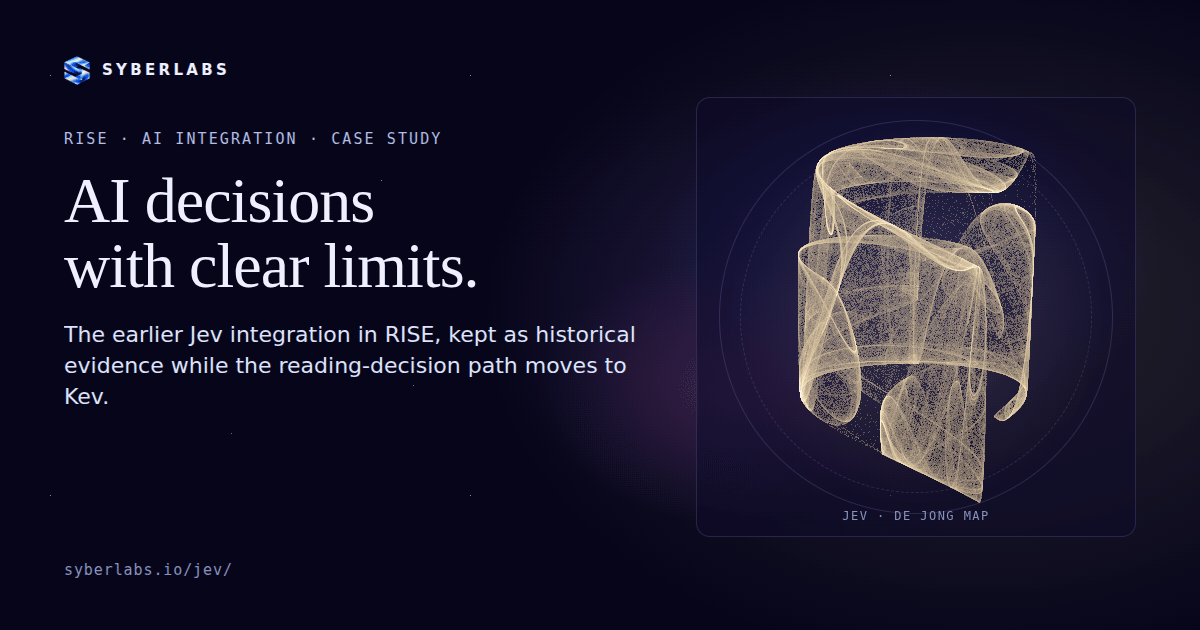
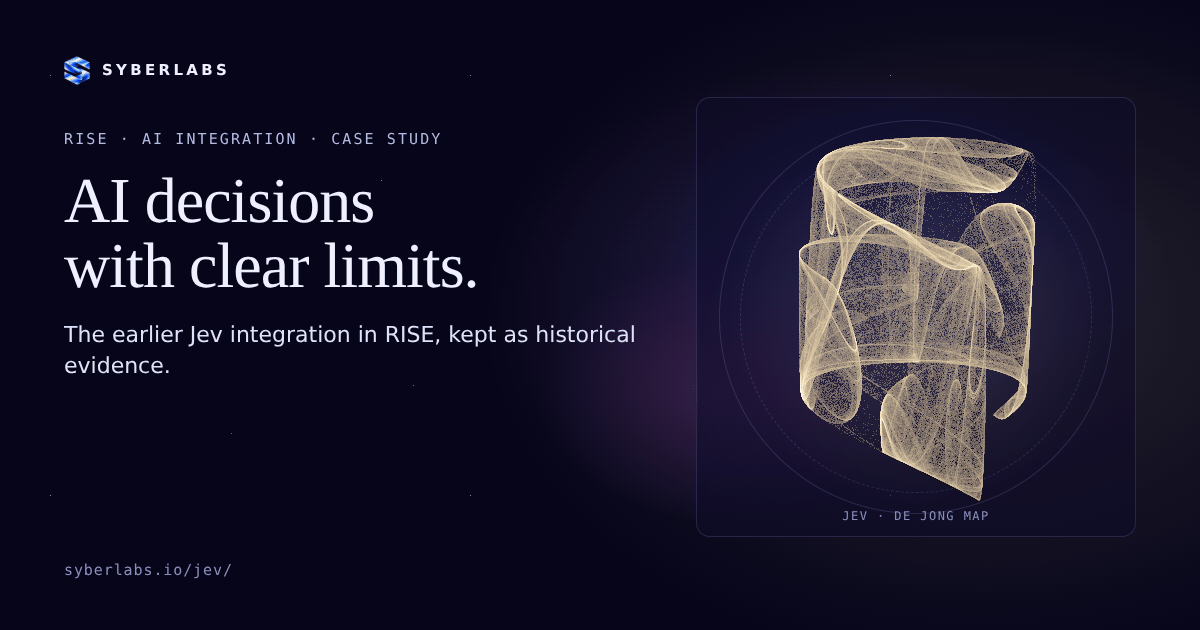
/jev/, /kev/, /approach/: cut jargon, a triad and a contradicted card
- /jev/: drop the lede triad "Structured AI answers. Rules in code. The
  reader stays in control."
- /jev/ social card said the decision path "moves to Kev"; /kev/ says
  Kev was not adopted. Card line cut to "kept as historical evidence",
  og/jev.png re-rendered (fonts pinned to the original DejaVu/Liberation
  fallbacks) and its ?v= bumped
- /kev/: drop "RISE spends no SyberLabs inference credential" (the next
  sentences say it plainly), the PR number "RISE #294", a repeat of
  where Kev runs and "preserved under its original name"
- /approach/: RISE is "a reader", not "an AI-assisted reader" (its AI
  is optional and reader-owned); drop "hosted Jev or local Kev"

Claude-Session: https://claude.ai/code/session_01HCTqqTVthqCzZJu6MWasuz

diff --git a/kev/index.html b/kev/index.html
@@ -45,15 +45,15 @@
     <section class="approach-hero" aria-labelledby="kev-title">
       <p class="eyebrow">RISE / AI integration / updated October 2026</p>
       <h1 id="kev-title">Your model, <em>your connection.</em></h1>
-      <p class="mission">RISE spends no SyberLabs inference credential. An AI reading request runs on a connection the reader owns: hosted Jev through the reader’s own OpenRouter account, or a pinned Kev-4B running on the reader’s own computer. The RISE server calls no model and holds no model key. Reading and manual settings need neither.</p>
+      <p class="mission">An AI reading request runs on a connection the reader owns: hosted Jev through the reader’s own OpenRouter account, or a pinned Kev-4B running on the reader’s own computer. The RISE server calls no model and holds no model key. Reading and manual settings need neither.</p>
       <a class="sy-btn sy-btn--solid hero-link" href="https://github.com/SyberLabs/RISE/blob/main/docs/USER-OWNED-AI.md">Read the design note ↗</a>
     </section>
     <section class="approach-method" aria-labelledby="status-title">
       <div class="section-heading"><p class="eyebrow">CURRENT STATUS</p><h2 id="status-title">What the evidence says.</h2></div>
       <ol class="method-list">
         <li><span>01 / ESTABLISHED</span><div><h3>Bounded decisions, one contract</h3><p>RISE builds finite choice questions from its public catalog, admits an answer only if every choice was offered, and maps it to reading settings in deterministic code. A model can pick an offered value and nothing else. The same contract serves hosted Jev, local Kev and the evaluation harness.</p></div></li>
-        <li><span>02 / SHIPPED</span><div><h3>Shared inference retired</h3><p>Since RISE #294 the Cloudflare Worker serves the app and a static decision catalog only. The six former inference routes answer 410 with instructions to connect. Connecting OpenRouter uses OAuth PKCE; the key lives in the tab’s memory and reaches only openrouter.ai. Local RISE starts the reader and a pinned Kev-4B on loopback with a per-run key the page never sees.</p></div></li>
-        <li><span>03 / NOT ADOPTED</span><div><h3>Kev on RISE requests</h3><p>Kev runs only on the reader’s own computer; RISE has no production Kev deployment, by design. In RISE’s internal checks, local Kev did not meet the bar for reading requests; those results are not published (<a href="https://github.com/SyberLabs/RISE/blob/main/docs/product/tasks/SCR-004.json">RISE task SCR-004</a>). Jev’s earlier 48 of 49 preference result belongs to the historical evaluation below and is not a Kev result. The local Kev path is tested on Windows with an RTX 5080; the Apple Silicon path is untested.</p></div></li>
+        <li><span>02 / SHIPPED</span><div><h3>Shared inference retired</h3><p>The Cloudflare Worker serves the app and a static decision catalog only. The six former inference routes answer 410 with instructions to connect. Connecting OpenRouter uses OAuth PKCE; the key lives in the tab’s memory and reaches only openrouter.ai. Local RISE starts the reader and a pinned Kev-4B on loopback with a per-run key the page never sees.</p></div></li>
+        <li><span>03 / NOT ADOPTED</span><div><h3>Kev on RISE requests</h3><p>RISE has no production Kev deployment, by design. In RISE’s internal checks, local Kev did not meet the bar for reading requests; those results are not published (<a href="https://github.com/SyberLabs/RISE/blob/main/docs/product/tasks/SCR-004.json">RISE task SCR-004</a>). Jev’s earlier 48 of 49 preference result belongs to the historical evaluation below and is not a Kev result. The local Kev path is tested on Windows with an RTX 5080; the Apple Silicon path is untested.</p></div></li>
       </ol>
     </section>
     <section class="approach-projects" aria-labelledby="links-title">
@@ -62,7 +62,7 @@
         <a class="project-card" href="https://github.com/SyberLabs/RISE/blob/main/docs/USER-OWNED-AI.md"><span>DESIGN</span><strong>User-owned AI in RISE</strong><p>The decision contract, the OpenRouter connection, and the Worker that calls no model.</p><b aria-hidden="true">↗</b></a>
         <a class="project-card" href="https://github.com/SyberLabs/RISE/blob/main/docs/LOCAL-RISE.md"><span>LOCAL</span><strong>Run RISE locally with Kev</strong><p>Pinned Kev-4B on your own GPU, every service on loopback, no hosted bill.</p><b aria-hidden="true">↗</b></a>
         <a class="project-card" href="https://github.com/jaredpalmer/kev"><span>UPSTREAM MODEL</span><strong>Kev source</strong><p>Model family and serving API by Jared Palmer.</p><b aria-hidden="true">↗</b></a>
-        <a class="project-card" href="/jev/"><span>EARLIER EVIDENCE</span><strong>Jev case study</strong><p>Historical integration and evaluation, preserved under its original name.</p><b aria-hidden="true">→</b></a>
+        <a class="project-card" href="/jev/"><span>EARLIER EVIDENCE</span><strong>Jev case study</strong><p>Historical integration and evaluation.</p><b aria-hidden="true">→</b></a>
       </div>
     </section>
   </main>

diff --git a/approach/index.html b/approach/index.html
@@ -68,10 +68,10 @@
         <h2 id="projects-title">Ideas turned into working software.</h2>
       </div>
       <div class="project-grid">
-        <a class="project-card" href="/projects/rise/"><span>READING APP</span><strong>RISE</strong><p>An AI-assisted reader that shapes pacing, imagery, and sound around a text.</p><b><svg class="sy-icon" width="20" height="20" viewBox="0 0 24 24" fill="none" stroke="currentColor" stroke-width="1.5" stroke-linecap="round" stroke-linejoin="round" aria-hidden="true"><path d="M5 12h14"/><path d="M13 6l6 6-6 6"/></svg></b></a>
+        <a class="project-card" href="/projects/rise/"><span>READING APP</span><strong>RISE</strong><p>A reader that shapes pacing, imagery, and sound around a text.</p><b><svg class="sy-icon" width="20" height="20" viewBox="0 0 24 24" fill="none" stroke="currentColor" stroke-width="1.5" stroke-linecap="round" stroke-linejoin="round" aria-hidden="true"><path d="M5 12h14"/><path d="M13 6l6 6-6 6"/></svg></b></a>
         <a class="project-card" href="/projects/syberwork/"><span>GOVERNED WORK</span><strong>SyberWork</strong><p>A contract admits each step an agent or a person proposes, and a hash-chained history records what happened.</p><b><svg class="sy-icon" width="20" height="20" viewBox="0 0 24 24" fill="none" stroke="currentColor" stroke-width="1.5" stroke-linecap="round" stroke-linejoin="round" aria-hidden="true"><path d="M5 12h14"/><path d="M13 6l6 6-6 6"/></svg></b></a>
         <a class="project-card" href="/projects/relay/"><span>JOB APPLICATIONS</span><strong>Relay</strong><p>Track research, draft revisions, and approval for each application.</p><b><svg class="sy-icon" width="20" height="20" viewBox="0 0 24 24" fill="none" stroke="currentColor" stroke-width="1.5" stroke-linecap="round" stroke-linejoin="round" aria-hidden="true"><path d="M5 12h14"/><path d="M13 6l6 6-6 6"/></svg></b></a>
-        <a class="project-card" href="/kev/"><span>AI INTEGRATION</span><strong>Reader-owned AI</strong><p>RISE runs its AI reading decisions on the reader’s own connection, hosted Jev or local Kev. The server calls no model.</p><b><svg class="sy-icon" width="20" height="20" viewBox="0 0 24 24" fill="none" stroke="currentColor" stroke-width="1.5" stroke-linecap="round" stroke-linejoin="round" aria-hidden="true"><path d="M5 12h14"/><path d="M13 6l6 6-6 6"/></svg></b></a>
+        <a class="project-card" href="/kev/"><span>AI INTEGRATION</span><strong>Reader-owned AI</strong><p>RISE runs its AI reading decisions on the reader’s own connection. The server calls no model.</p><b><svg class="sy-icon" width="20" height="20" viewBox="0 0 24 24" fill="none" stroke="currentColor" stroke-width="1.5" stroke-linecap="round" stroke-linejoin="round" aria-hidden="true"><path d="M5 12h14"/><path d="M13 6l6 6-6 6"/></svg></b></a>
         <a class="project-card" href="/projects/flyspace/"><span>SPATIAL AI WORKSPACE</span><strong>FLYSPACE</strong><p>Data blocks, AI blocks and APIs on the fly, with every answer traced to its sources. A public preview is live.</p><b><svg class="sy-icon" width="20" height="20" viewBox="0 0 24 24" fill="none" stroke="currentColor" stroke-width="1.5" stroke-linecap="round" stroke-linejoin="round" aria-hidden="true"><path d="M5 12h14"/><path d="M13 6l6 6-6 6"/></svg></b></a>
         <a class="project-card" href="/projects/osahr/"><span>SIMULATION</span><strong>OSAHR</strong><p>Simulate systems that change over time, then replay each run.</p><b><svg class="sy-icon" width="20" height="20" viewBox="0 0 24 24" fill="none" stroke="currentColor" stroke-width="1.5" stroke-linecap="round" stroke-linejoin="round" aria-hidden="true"><path d="M5 12h14"/><path d="M13 6l6 6-6 6"/></svg></b></a>
       </div>

diff --git a/jev/index.html b/jev/index.html
@@ -10,11 +10,11 @@
   <meta property="og:title" content="Jev Integration in RISE: AI Decisions with Clear Limits | SyberLabs">
   <meta property="og:description" content="Historical case study of RISE’s integration of TypeSafe AI’s Jev. Jev is still available through the reader’s own OpenRouter account.">
   <meta property="og:url" content="https://syberlabs.io/jev/">
-  <meta property="og:image" content="https://syberlabs.io/og/jev.png?v=1">
+  <meta property="og:image" content="https://syberlabs.io/og/jev.png?v=20261026">
   <meta name="twitter:card" content="summary_large_image">
   <meta name="twitter:title" content="Jev Integration in RISE: AI Decisions with Clear Limits | SyberLabs">
   <meta name="twitter:description" content="Historical case study of RISE’s integration of TypeSafe AI’s Jev. Jev is still available through the reader’s own OpenRouter account.">
-  <meta name="twitter:image" content="https://syberlabs.io/og/jev.png?v=1">
+  <meta name="twitter:image" content="https://syberlabs.io/og/jev.png?v=20261026">
   <link rel="icon" href="/favicon.ico?v=prism" sizes="any">
   <title>Jev Integration in RISE: AI Decisions with Clear Limits | SyberLabs</title>
   <link rel="preconnect" href="https://fonts.googleapis.com">
@@ -48,7 +48,6 @@
       <div class="jev-hero__copy">
         <p class="sy-eyebrow">AI integration / Case study</p>
         <h1 id="hero-title" class="sy-display-xl jev-hero__title">AI decisions with <em>clear</em> limits.</h1>
-        <p class="sy-body-lg jev-hero__lede">Structured AI answers. Rules in code. The reader stays in control.</p>
         <div class="sy-actions jev-hero__actions"><a class="sy-btn sy-btn--solid" href="#technical">See how it works<svg class="sy-icon sy-icon--trail" width="18" height="18" viewBox="0 0 24 24" fill="none" stroke="currentColor" stroke-width="1.5" stroke-linecap="round" stroke-linejoin="round" aria-hidden="true"><path d="M12 5v14"/><path d="M6 13l6 6 6-6"/></svg></a></div>
         <p class="sy-small jev-hero__note">Historical case study of RISE’s integration of TypeSafe AI’s Jev, on a hosted path retired in September 2026. Jev is still available in RISE through the reader’s own OpenRouter account; see <a href="/kev/">reader-owned AI in RISE</a>. SyberLabs has no partnership with TypeSafe AI.</p>
       </div>
